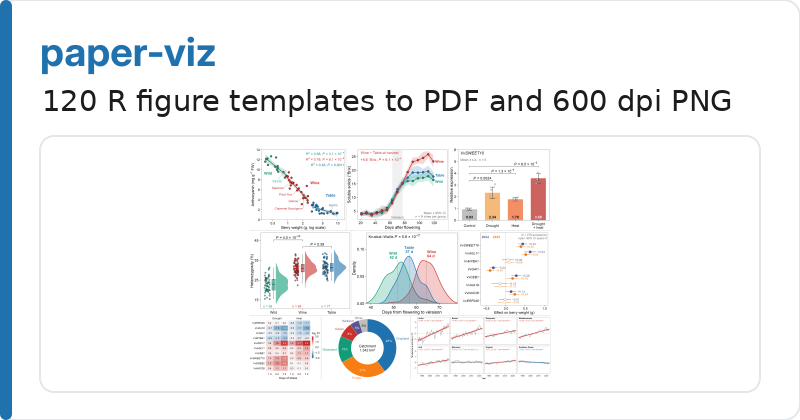
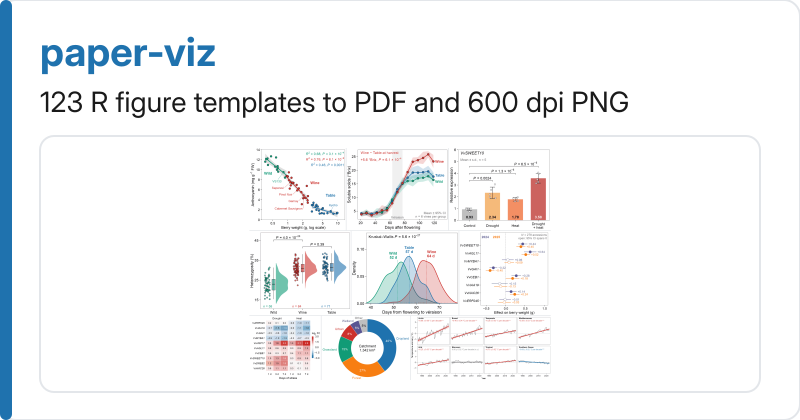
Bump paper-viz count to 123 templates plus 21 schematics (#4)
Squashed commits: 7c1c036, aaebc6f, 0558d4e.

Changed region(s): [[0.0312, 0.2167, 0.9375, 0.2786]]

diff --git a/README.md b/README.md
@@ -15,10 +15,10 @@ I build pipelines and analyze grapevine genomes, focusing on clones, pangenomes,
       <a href="https://github.com/Xuzhen-Li/paper-viz">
         <picture>
           <source media="(prefers-color-scheme: dark)" srcset="assets/card-paper-viz-dark.png">
-          <img alt="paper-viz: 120 R figure templates" src="assets/card-paper-viz-light.png">
+          <img alt="paper-viz: 123 R figure templates" src="assets/card-paper-viz-light.png">
         </picture>
       </a><br>
-      Run 120 R figure templates to generate vector PDFs and 600 dpi PNGs.
+      Run 123 R figure templates to generate vector PDFs and 600 dpi PNGs.
     </td>
     <td width="50%">
       <a href="https://github.com/Xuzhen-Li/grapeancestry">
@@ -111,7 +111,7 @@ I build pipelines and analyze grapevine genomes, focusing on clones, pangenomes,
 
 | Repository | What it does |
 | --- | --- |
-| [paper-viz](https://github.com/Xuzhen-Li/paper-viz) | R-first publication figure gallery: 120 templates (code + simulated data + preview), browsable web gallery, agent-callable. |
+| [paper-viz](https://github.com/Xuzhen-Li/paper-viz) | R-first publication figure gallery: 123 templates plus 21 schematics (code + simulated data + preview), browsable web gallery, agent-callable. |
 | [paper-reading](https://github.com/Xuzhen-Li/paper-reading) | Turns one research PDF into a Chinese illustrated reading note; your PDF library stays on your machine. |
 | [literature-review-skills](https://github.com/Xuzhen-Li/literature-review-skills) | An agent-agnostic skill suite for writing literature reviews that stops at human gates, with every claim tied to a source the project actually holds. |
 | [patent-drafting-skills](https://github.com/Xuzhen-Li/patent-drafting-skills) | Bilingual (EN/中文) agent skills for drafting invention patents — CN, US and PCT: disclosure, prior-art search, inventive step, claims, description, drawings, consistency checks, .docx export. |

diff --git a/README.zh.md b/README.zh.md
@@ -15,10 +15,10 @@
       <a href="https://github.com/Xuzhen-Li/paper-viz">
         <picture>
           <source media="(prefers-color-scheme: dark)" srcset="assets/card-paper-viz-dark.png">
-          <img alt="paper-viz: 120个R绘图模板" src="assets/card-paper-viz-light.png">
+          <img alt="paper-viz: 123个R绘图模板" src="assets/card-paper-viz-light.png">
         </picture>
       </a><br>
-      运行120个R语言绘图模板，生成矢量PDF和600 dpi的PNG图。
+      运行123个R语言绘图模板，生成矢量PDF和600 dpi的PNG图。
     </td>
     <td width="50%">
       <a href="https://github.com/Xuzhen-Li/grapeancestry">
@@ -111,7 +111,7 @@
 
 | 仓库 | 功能说明 |
 | --- | --- |
-| [paper-viz](https://github.com/Xuzhen-Li/paper-viz) | 以 R 为主的出版级图表画廊：120个模板（代码+模拟数据+预览），支持Web浏览与Agent调用。 |
+| [paper-viz](https://github.com/Xuzhen-Li/paper-viz) | 以 R 为主的出版级图表画廊：123个模板加21个示意图（代码+模拟数据+预览），支持Web浏览与Agent调用。 |
 | [paper-reading](https://github.com/Xuzhen-Li/paper-reading) | 将单篇研究PDF转换为中文图文阅读笔记；您的PDF库保存在本地。 |
 | [literature-review-skills](https://github.com/Xuzhen-Li/literature-review-skills) | 独立于Agent的文献综述撰写技能套件，并在人工把关处停止，每一项声明均绑定至项目持有的来源。 |
 | [patent-drafting-skills](https://github.com/Xuzhen-Li/patent-drafting-skills) | 中英双语的起草发明专利Agent技能——覆盖中美及PCT：公开、现有技术检索、创造性、权利要求、说明书、附图、一致性检查与.docx导出。 |
